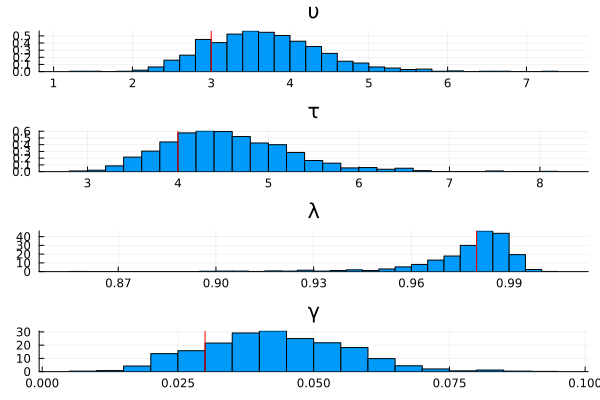
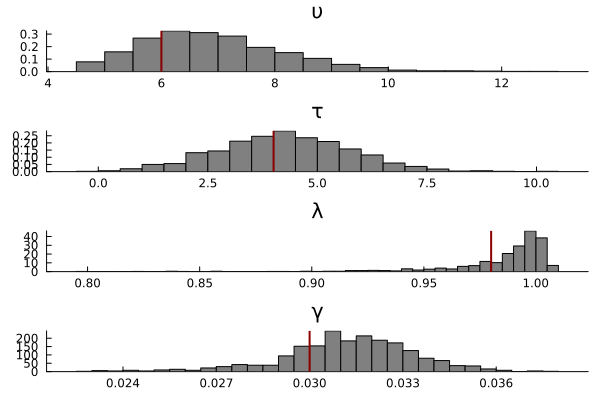
update docs

diff --git a/docs/src/amortized_bayesian_inference.md b/docs/src/amortized_bayesian_inference.md
@@ -12,6 +12,7 @@ This page demonstrates how to perform amortized Bayesian inference using neural 
 ```julia
 using ACTRPVT
 using AlgebraOfGraphics
+using BSON: @save
 using CairoMakie
 using Distributions
 using Flux
@@ -37,7 +38,7 @@ simulate(θ, m) = [to_matrix(rand(PVTModel(ϑ...), m)) for ϑ ∈ eachcol(θ)]
 approx_dist = NormalisingFlow(d, 2d)
 
 # Neural network mapping data to summary statistics (of the same dimension used in the approximate distribution)
-ψ = Chain(x -> sign.(x) .* log.(1 .+ abs.(x)), Dense(n, w, relu), Dense(w, w, relu)) # NB now using log-transform for numerical stability
+ψ = Chain(x -> sign.(x) .* log.(1 .+ abs.(x)), Dense(n, w, relu), Dense(w, w, relu))  
 ϕ = Chain(Dense(w, w, relu), Dense(w, 2d))           
 network = DeepSet(ψ, ϕ)
 
@@ -45,38 +46,52 @@ network = DeepSet(ψ, ϕ)
 estimator = PosteriorEstimator(approx_dist, network) 
 
 # Train the estimator
-trained_estimator = train(
+estimator = train(
     estimator, 
     sample, 
     simulate; 
     m, 
-    epochs = 30,
     K = 15_000
 )
 
 # Assess the estimator
 θ_test = sample(1000)
 Z_test = simulate(θ_test, m)
-assessment = assess(trained_estimator, θ_test, Z_test; parameter_names = ["υ", "τ", "λ", "γ"])
+assessment = assess(estimator, θ_test, Z_test; parameter_names = ["υ", "τ", "λ", "γ"])
 bias(assessment)  
 rmse(assessment) 
-AlgebraOfGraphics.plot(assessment)
-
+recovery_plot = AlgebraOfGraphics.plot(assessment)
 
 # Apply the estimator to observed data
 title = ["υ" "τ" "λ" "γ"]
-θ = [5,3,.97,.05]       # true parameters
+θ = [4, 3, 0.97, 0.05]       # true parameters
 Z = simulate(θ, m)      # "observed" data
-post_samples = sampleposterior(trained_estimator, Z)
-Plots.histogram(post_samples'; layout = (4,1), norm = true, leg = false, title)
-vline!([θ'], color = :red)
+post_samples = sampleposterior(estimator, Z)
+Plots.histogram(
+    post_samples';
+    layout = (4, 1),
+    color = :grey,
+    grid = false,
+    norm = true,
+    leg = false,
+    title
+)
+vline!([θ'], color = :darkred, linewidth = 2)
 
 # Apply the estimator to observed data
-θ = [3,4,.98,.03]       # true parameters
+θ = [6, 4, 0.98, 0.03]       # true parameters
 Z = simulate(θ, m)      # "observed" data
-post_samples = sampleposterior(trained_estimator, Z)
-Plots.histogram(post_samples'; layout = (4,1), norm = true, leg = false, title)
-vline!([θ'], color = :red)
+post_samples = sampleposterior(estimator, Z)
+Plots.histogram(
+    post_samples';
+    layout = (4, 1),
+    color = :grey,
+    grid = false,
+    norm = true,
+    leg = false,
+    title
+)
+vline!([θ'], color = :darkred, linewidth = 2)
 ```
 ```@raw html
 </details>
@@ -86,6 +101,7 @@ vline!([θ'], color = :red)
 ```julia
 using ACTRPVT
 using AlgebraOfGraphics
+using BSON: @save
 using CairoMakie
 using Distributions
 using Flux
@@ -129,12 +145,11 @@ estimator = PosteriorEstimator(approx_dist, network)
 # Train the estimator
 
 ```julia
-trained_estimator = train(
+estimator = train(
     estimator, 
     sample, 
     simulate; 
     m, 
-    epochs = 30,
     K = 15_000
 )
 ```
@@ -142,12 +157,12 @@ trained_estimator = train(
 ```julia
 θ_test = sample(1000)
 Z_test = simulate(θ_test, m)
-assessment = assess(trained_estimator, θ_test, Z_test; parameter_names = ["υ", "τ", "λ", "γ"])
+assessment = assess(estimator, θ_test, Z_test; parameter_names = ["υ", "τ", "λ", "γ"])
 bias(assessment)  
 rmse(assessment) 
-AlgebraOfGraphics.plot(assessment)
+recovery_plot = AlgebraOfGraphics.plot(assessment)
 ```
-![](assets/recovery.png)
+![](assets/parameter_recovery.png)
 
 # Estimate the Posterior Distributions
 
@@ -155,19 +170,97 @@ The examples below estimate the posterior distributions using data generated fro
 
 ```julia
 title = ["υ" "τ" "λ" "γ"]
-θ = [5,3,.97,.05]       # true parameters
+θ = [4, 3, 0.97, 0.05]       # true parameters
 Z = simulate(θ, m)      # "observed" data
-post_samples = sampleposterior(trained_estimator, Z)
-Plots.histogram(post_samples'; layout = (4,1), norm = true, leg = false, title)
-vline!([θ'], color = :red)
+post_samples = sampleposterior(estimator, Z)
+Plots.histogram(
+    post_samples';
+    layout = (4, 1),
+    color = :grey,
+    grid = false,
+    norm = true,
+    leg = false,
+    title
+)
+vline!([θ'], color = :darkred, linewidth = 2)
 ```
 ![](assets/posterior1.png)
 ```julia
-θ = [3,4,.98,.03]       # true parameters
+θ = [6, 4, 0.98, 0.03]       # true parameters
 Z = simulate(θ, m)      # "observed" data
-post_samples = sampleposterior(trained_estimator, Z)
-Plots.histogram(post_samples'; layout = (4,1), norm = true, leg = false, title)
-vline!([θ'], color = :red)
-
+post_samples = sampleposterior(estimator, Z)
+Plots.histogram(
+    post_samples';
+    layout = (4, 1),
+    color = :grey,
+    grid = false,
+    norm = true,
+    leg = false,
+    title
+)
+vline!([θ'], color = :darkred, linewidth = 2)
 ```
 ![](assets/posterior2.png)
+
+# Save the Trained Neural Network
+
+One main benefit of amortized inference is that the trained neural network can be saved and reused in different applications. The code block below shows how to save the weights of the trained neural network.
+
+```julia
+model_state = Flux.state(estimator)
+@save "actr_pvt_model.bson" model_state
+```
+# Reload the Trained Neural Network
+
+The weights can be reloaded into a new Julia session via:
+```julia
+@load "actr_pvt_model.bson" model_state
+Flux.loadmodel!(estimator, model_state)
+```
+Note that you will need to load dependencies and initialize a new neural network before passing the weights. Click the code below to see a full working example.
+```@raw html
+<details>
+<summary><b>Show Full Code</b></summary>
+```
+```julia
+using ACTRPVT
+using AlgebraOfGraphics
+using BSON: @load
+using CairoMakie
+using Distributions
+using Flux
+using NeuralEstimators
+using Plots
+
+n = 1           # dimension of each data replicate 
+m = 50          # number of independent replicates 
+d = 4           # dimension of the parameter vector θ
+w = 128         # width of each hidden layer 
+
+function sample(K)
+    υτ = rand(MvNormal([5, 4], [4 2; 2 4]), K)
+    λ = rand(Beta(25, 0.5), K)
+    γ = rand(truncated(Normal(0.04, 0.015), 0.01, Inf), K)
+    θ = vcat(υτ, λ', γ')
+    return θ
+end
+to_matrix(x) = reshape(x, 1, length(x))
+simulate(θ, m) = [to_matrix(rand(PVTModel(ϑ...), m)) for ϑ ∈ eachcol(θ)]
+
+# Approximate distribution
+approx_dist = NormalisingFlow(d, 2d)
+
+# Neural network mapping data to summary statistics (of the same dimension used in the approximate distribution)
+ψ = Chain(x -> sign.(x) .* log.(1 .+ abs.(x)), Dense(n, w, relu), Dense(w, w, relu)) # NB now using log-transform for numerical stability
+ϕ = Chain(Dense(w, w, relu), Dense(w, 2d))
+network = DeepSet(ψ, ϕ)
+
+# Initialise a neural posterior estimator
+estimator = PosteriorEstimator(approx_dist, network)
+
+@load "actr_pvt_model.bson" model_state
+Flux.loadmodel!(estimator, model_state)
+```
+```@raw html
+</details>
+```
